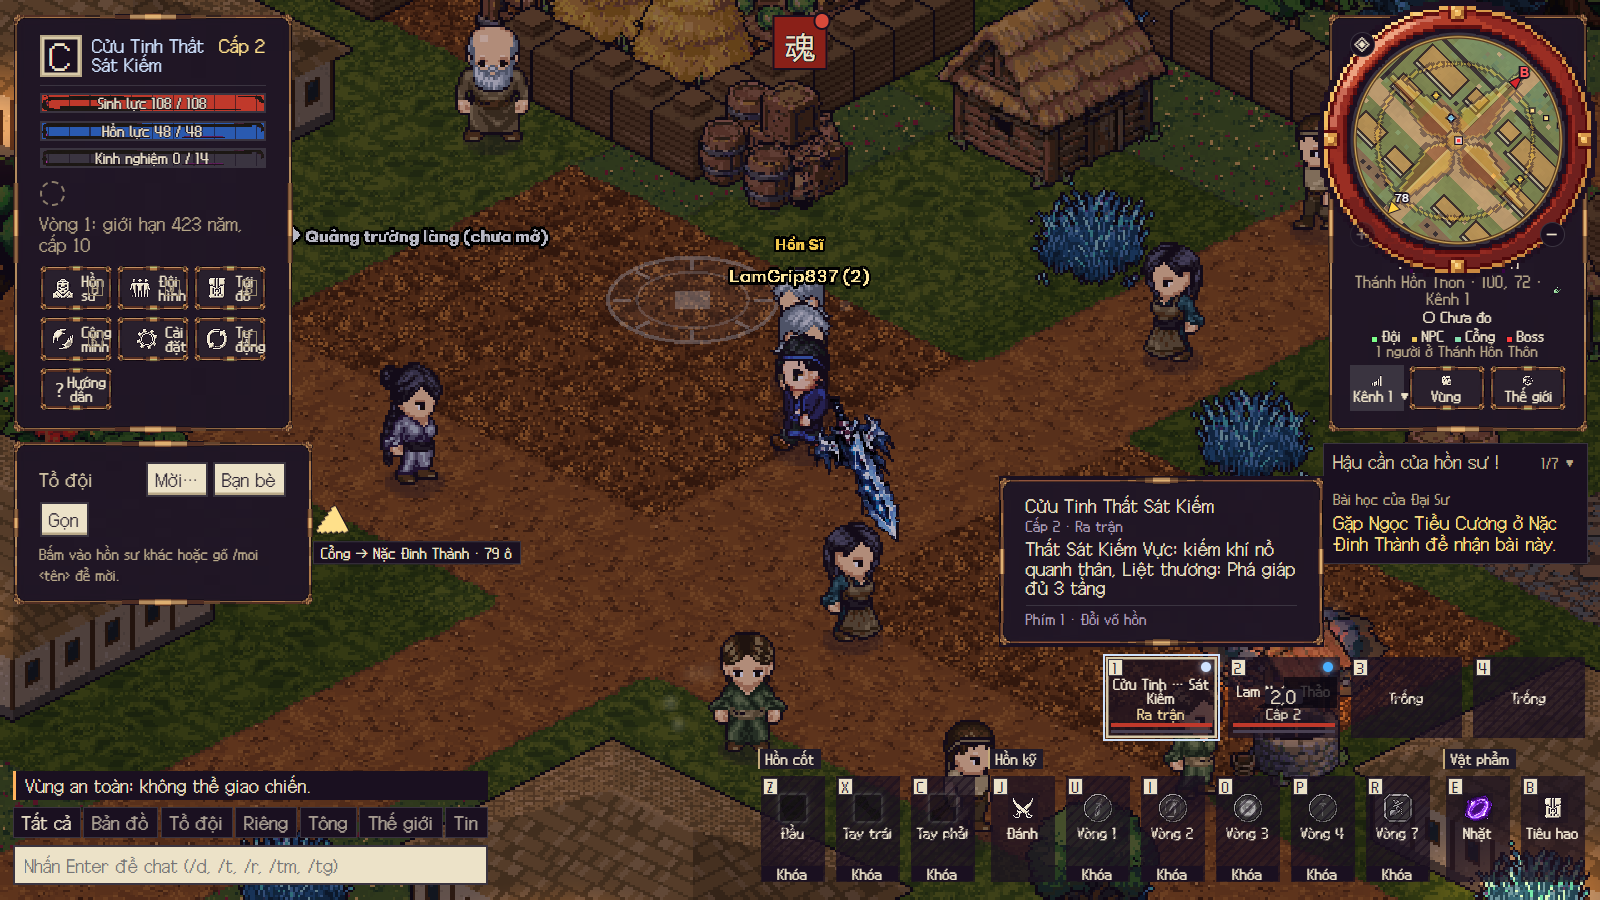
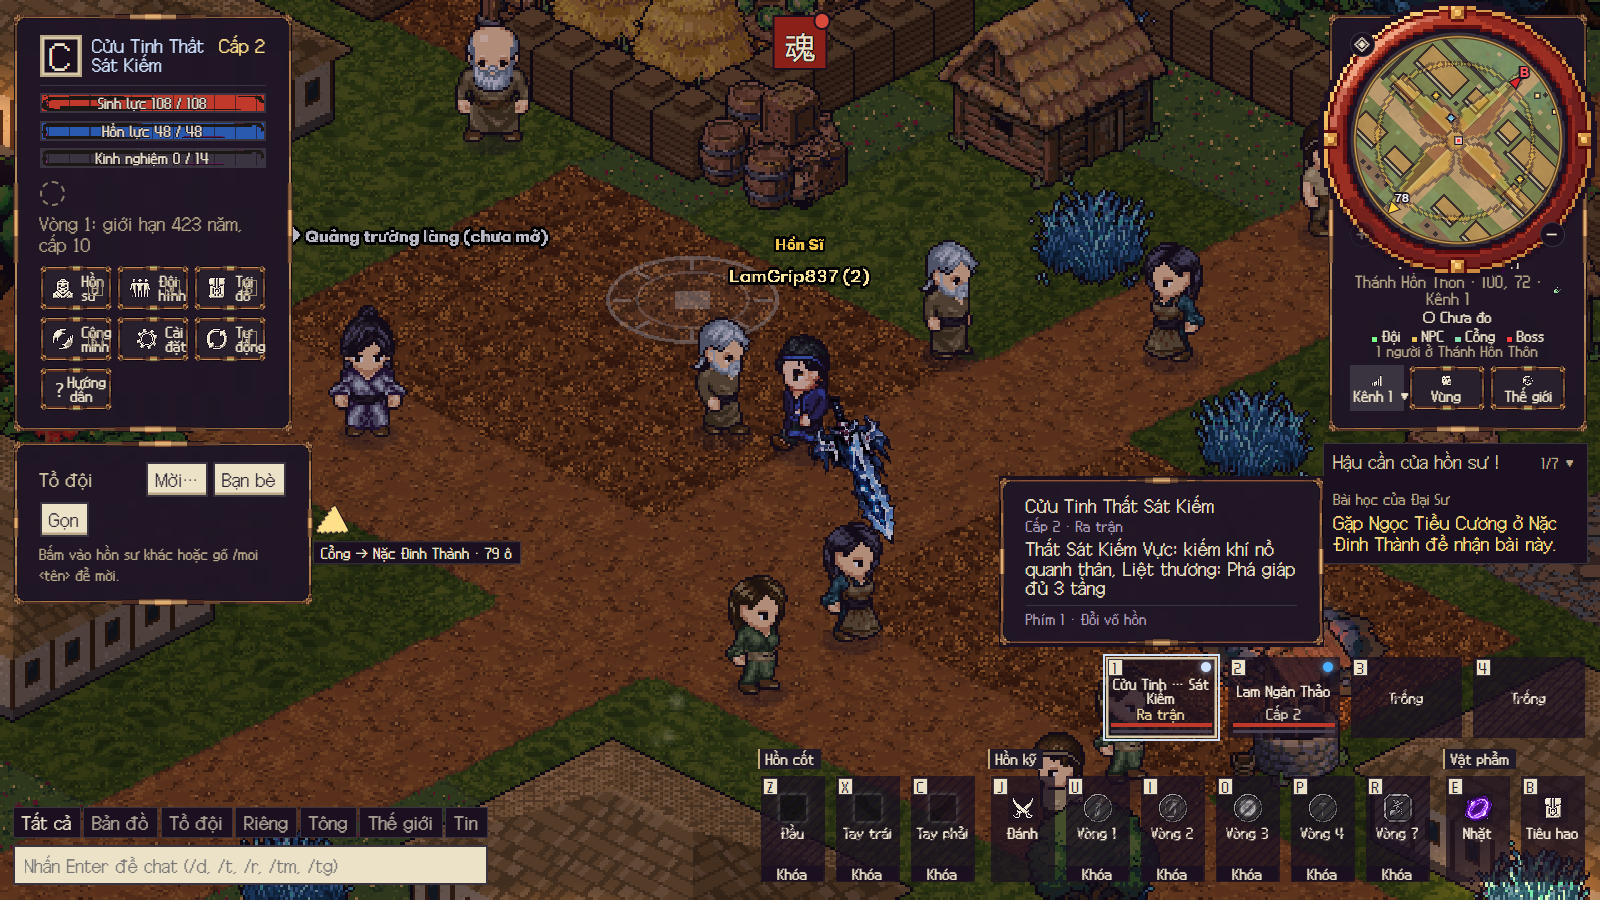
fix(client): giữ dao động vũ khí theo đặc tả

diff --git a/art/src/phuthe-anim/lam_ngan_thao/vukhi/ingame/index.html b/art/src/phuthe-anim/lam_ngan_thao/vukhi/ingame/index.html
@@ -1,1 +1,1 @@
-<!doctype html><html lang="vi"><meta charset="utf-8"><meta name="viewport" content="width=device-width"><title>Lam Ngân Thảo — ảnh kiểm trong game</title><style>body{background:#1c1920;color:#eee5d3;font:16px/1.6 system-ui;margin:24px}a{color:#9ed7ff}h1{font-size:25px}.grid{display:grid;grid-template-columns:repeat(auto-fit,minmax(450px,1fr));gap:16px}figure{margin:0 0 20px}img{width:100%;height:auto;border:1px solid #514957}figcaption{padding:7px;background:#302936}.warn{color:#ffd290}details{margin:22px 0}</style><h1>Lam Ngân Thảo — kiểm trong client game</h1><p>Đã nhập hai sheet <code>vkanim_lam_ngan_thao_b/_f</code> bằng importer #1323. Ảnh chụp nguyên byte từ AO Browser tại <code>/choi?thu=vukhi</code>, thân LPC thật nam/nữ, qua <code>vukhiSetOf</code> và <code>syncPhuLayers</code>. Mỗi ảnh: s → se → e → ne → n; cột cuối Bạch Hổ không có sheet vũ khí, không dựng sheet giả.</p><p><a href="capture.source.json">Nguồn chụp, mốc, SHA256 và đường dẫn tái tạo</a> · <a href="../NGUON.md">Hồ sơ</a> · <a href="../isolated/index.html">Bộ ghép từ atlas riêng</a></p><p class="warn"><b>Hai cảnh báo còn giữ:</b> chan-lech 14% ở s/attack khung 1 và se/attack khung 5 (chỉ số từ 0). Cùng phát hiện ở cả hai giới; không có lỗi chặn. Có ảnh mốc 88/321 ms bên dưới để duyệt, không xóa cảnh báo.</p><h2>Đứng</h2><div class="grid"><figure><figcaption>Nam — Đứng (120 ms)</figcaption><a href="m-idle.png"><img src="m-idle.png" alt="m idle năm hướng + Bạch Hổ"></a></figure><figure><figcaption>Nữ — Đứng (120 ms)</figcaption><a href="f-idle.png"><img src="f-idle.png" alt="f idle năm hướng + Bạch Hổ"></a></figure></div><h2>Đi</h2><div class="grid"><figure><figcaption>Nam — Đi (120 ms)</figcaption><a href="m-walk.png"><img src="m-walk.png" alt="m walk năm hướng + Bạch Hổ"></a></figure><figure><figcaption>Nữ — Đi (120 ms)</figcaption><a href="f-walk.png"><img src="f-walk.png" alt="f walk năm hướng + Bạch Hổ"></a></figure></div><h2>Đánh</h2><div class="grid"><figure><figcaption>Nam — Đánh (180 ms)</figcaption><a href="m-attack.png"><img src="m-attack.png" alt="m attack năm hướng + Bạch Hổ"></a></figure><figure><figcaption>Nữ — Đánh (180 ms)</figcaption><a href="f-attack.png"><img src="f-attack.png" alt="f attack năm hướng + Bạch Hổ"></a></figure></div><h2>Thi triển</h2><div class="grid"><figure><figcaption>Nam — Thi triển (180 ms)</figcaption><a href="m-cast.png"><img src="m-cast.png" alt="m cast năm hướng + Bạch Hổ"></a></figure><figure><figcaption>Nữ — Thi triển (180 ms)</figcaption><a href="f-cast.png"><img src="f-cast.png" alt="f cast năm hướng + Bạch Hổ"></a></figure></div><h2>Cảnh GameScene thật sau sửa neo</h2><p>Đăng nhập tài khoản RAM riêng tại /choi, chuyển ô 2 Lam Ngân Thảo: idle trong Thánh Hồn Thôn. Ảnh thứ hai chuyển ô 1 Thất Sát Kiếm chưa có sheet vkanim, hiện phụ thể cũ và không giữ roi Lam Ngân Thảo. Không đóng băng đồng hồ; vùng an toàn chặn đòn đánh nên không dùng cảnh này làm bằng chứng attack. Trang thử và GameScene dùng chung phuLayerPlacement; vũ khí không áp neo lưng, clip offset hoặc dao động phụ thể.</p><div class="grid"><a href="game-scene-m-idle.png"><img src="game-scene-m-idle.png" alt="GameScene Lam Ngân Thảo"></a><a href="game-scene-fallback.png"><img src="game-scene-fallback.png" alt="GameScene không có vũ khí"></a></div><h2>Nhánh dự phòng độc lập</h2><p>Chọn Bạch Hổ làm võ hồn chính: thanh trạng thái “không có sheet vũ khí”, cả năm nhân vật không cầm vũ khí.</p><a href="fallback-main.png"><img src="fallback-main.png" alt="Bạch Hổ không có sheet vũ khí"></a><details><summary>Hai khung có cảnh báo chan-lech 14%</summary><p>s/attack khung 1, mốc 88 ms</p><a href="warning-s-88.png"><img src="warning-s-88.png" alt="Khung cảnh báo s"></a><p>se/attack khung 5, mốc 321 ms</p><a href="warning-se-321.png"><img src="warning-se-321.png" alt="Khung cảnh báo se"></a></details><p>Soát các khung chụp: không thấy tay phụ, đầu dây bị xén hoặc gắn nhầm vũ khí cho Bạch Hổ. Đường chuyển lớp cast và nét của bó dây vẫn dành cho chủ repo duyệt. Ảnh không thay cho kiểm mọi mốc animation.</p></html>
+<!doctype html><html lang="vi"><meta charset="utf-8"><meta name="viewport" content="width=device-width"><title>Lam Ngân Thảo — ảnh kiểm trong game</title><style>body{background:#1c1920;color:#eee5d3;font:16px/1.6 system-ui;margin:24px}a{color:#9ed7ff}h1{font-size:25px}.grid{display:grid;grid-template-columns:repeat(auto-fit,minmax(450px,1fr));gap:16px}figure{margin:0 0 20px}img{width:100%;height:auto;border:1px solid #514957}figcaption{padding:7px;background:#302936}.warn{color:#ffd290}details{margin:22px 0}</style><h1>Lam Ngân Thảo — kiểm trong client game</h1><p>Đã nhập hai sheet <code>vkanim_lam_ngan_thao_b/_f</code> bằng importer #1323. Ảnh chụp nguyên byte từ AO Browser tại <code>/choi?thu=vukhi</code>, thân LPC thật nam/nữ, qua <code>vukhiSetOf</code> và <code>syncPhuLayers</code>. Mỗi ảnh: s → se → e → ne → n; cột cuối Bạch Hổ không có sheet vũ khí, không dựng sheet giả.</p><p><a href="capture.source.json">Nguồn chụp, mốc, SHA256 và đường dẫn tái tạo</a> · <a href="../NGUON.md">Hồ sơ</a> · <a href="../isolated/index.html">Bộ ghép từ atlas riêng</a></p><p class="warn"><b>Hai cảnh báo còn giữ:</b> chan-lech 14% ở s/attack khung 1 và se/attack khung 5 (chỉ số từ 0). Cùng phát hiện ở cả hai giới; không có lỗi chặn. Có ảnh mốc 88/321 ms bên dưới để duyệt, không xóa cảnh báo.</p><h2>Đứng</h2><div class="grid"><figure><figcaption>Nam — Đứng (120 ms)</figcaption><a href="m-idle.png"><img src="m-idle.png" alt="m idle năm hướng + Bạch Hổ"></a></figure><figure><figcaption>Nữ — Đứng (120 ms)</figcaption><a href="f-idle.png"><img src="f-idle.png" alt="f idle năm hướng + Bạch Hổ"></a></figure></div><h2>Đi</h2><div class="grid"><figure><figcaption>Nam — Đi (120 ms)</figcaption><a href="m-walk.png"><img src="m-walk.png" alt="m walk năm hướng + Bạch Hổ"></a></figure><figure><figcaption>Nữ — Đi (120 ms)</figcaption><a href="f-walk.png"><img src="f-walk.png" alt="f walk năm hướng + Bạch Hổ"></a></figure></div><h2>Đánh</h2><div class="grid"><figure><figcaption>Nam — Đánh (180 ms)</figcaption><a href="m-attack.png"><img src="m-attack.png" alt="m attack năm hướng + Bạch Hổ"></a></figure><figure><figcaption>Nữ — Đánh (180 ms)</figcaption><a href="f-attack.png"><img src="f-attack.png" alt="f attack năm hướng + Bạch Hổ"></a></figure></div><h2>Thi triển</h2><div class="grid"><figure><figcaption>Nam — Thi triển (180 ms)</figcaption><a href="m-cast.png"><img src="m-cast.png" alt="m cast năm hướng + Bạch Hổ"></a></figure><figure><figcaption>Nữ — Thi triển (180 ms)</figcaption><a href="f-cast.png"><img src="f-cast.png" alt="f cast năm hướng + Bạch Hổ"></a></figure></div><h2>Cảnh GameScene thật sau sửa neo</h2><p>Đăng nhập tài khoản RAM riêng tại /choi, chuyển ô 2 Lam Ngân Thảo: idle trong Thánh Hồn Thôn. Ảnh thứ hai chuyển ô 1 Thất Sát Kiếm chưa có sheet vkanim, hiện phụ thể cũ và không giữ roi Lam Ngân Thảo. Không đóng băng đồng hồ; vùng an toàn chặn đòn đánh nên không dùng cảnh này làm bằng chứng attack. Trang thử và GameScene dùng chung phuLayerPlacement; vũ khí không áp neo lưng, clip offset; GameScene vẫn dùng spiritMotion với weaponOscK theo đặc tả.</p><div class="grid"><a href="game-scene-m-idle.png"><img src="game-scene-m-idle.png" alt="GameScene Lam Ngân Thảo"></a><a href="game-scene-fallback.png"><img src="game-scene-fallback.png" alt="GameScene không có vũ khí"></a></div><h2>Nhánh dự phòng độc lập</h2><p>Chọn Bạch Hổ làm võ hồn chính: thanh trạng thái “không có sheet vũ khí”, cả năm nhân vật không cầm vũ khí.</p><a href="fallback-main.png"><img src="fallback-main.png" alt="Bạch Hổ không có sheet vũ khí"></a><details><summary>Hai khung có cảnh báo chan-lech 14%</summary><p>s/attack khung 1, mốc 88 ms</p><a href="warning-s-88.png"><img src="warning-s-88.png" alt="Khung cảnh báo s"></a><p>se/attack khung 5, mốc 321 ms</p><a href="warning-se-321.png"><img src="warning-se-321.png" alt="Khung cảnh báo se"></a></details><p>Soát các khung chụp: không thấy tay phụ, đầu dây bị xén hoặc gắn nhầm vũ khí cho Bạch Hổ. Đường chuyển lớp cast và nét của bó dây vẫn dành cho chủ repo duyệt. Ảnh không thay cho kiểm mọi mốc animation.</p></html>

diff --git a/client/src/scenes/GameScene.ts b/client/src/scenes/GameScene.ts
@@ -3480,8 +3480,6 @@ export class GameScene extends Phaser.Scene {
    * chuyển động tắt hẳn, người khác nhẹ hơn. Gục, hấp thụ, khung phụ thể ẩn thì trả về tư thế gốc.
    */
   spiritMotion(id: string, v: PView, p: any, time: number, anim: HsAnim, flip: boolean, ox: number, oy: number, anchorK = 1, real = !!v.vhAnim) {
-    // Vũ khí đã bake pose theo bàn tay; dao động phụ thể sẽ làm điểm cầm rời tay.
-    if (real && v.vhAnim?.layout.weapon) { for (const s of [v.vb, v.vf]) s.setRotation(0).setScale(1 / SPR).setPosition(ox, oy); return; }
     const fam = SPIRIT_FAMILY[VOHON[p.vh]?.id ?? ""], layers = [v.vb, v.vf];
     const k = fam && v.vb.visible && !p.dead && anim !== "absorb" ? spiritScale(fxLevel(), fxPrefs.reduce, id === this.me) : 0;
     const iso = real || isIsoSheet(this, v.vb.texture.key), base = (iso ? 1 / SPR : 1) * (iso ? anchorK : 1); // phụ thể 48×48 cũ vẽ bằng code phóng 1 (fitHonsuLayer); neo chỉ cho ảnh iso

diff --git a/art/src/phuthe-anim/lam_ngan_thao/vukhi/NGUON.md b/art/src/phuthe-anim/lam_ngan_thao/vukhi/NGUON.md
@@ -1,4 +1,4 @@
-# Lam Ngân Thảo — thí điểm vũ khí mềm
+# Lam Ngân Thảo — thí điểm vũ khí mềm
 
 Part of #1312, epic #1020; issue thực hiện #1321. Dòng 18 trong `docs/art/phu-the-vu-khi.md`: roi dây cỏ lam thẫm, một tay giữ gốc, thân dây xoắn, ngọn nhọn. **Trạng thái mới nhất: đã nhập bộ vẽ riêng + ghép grip vào game theo chỉ đạo sau #1323; [ảnh kiểm trong game](ingame/index.html) ở cuối hồ sơ.** Các mục vòng 1/2 và thử nghiệm dưới đây giữ lịch sử trước lần nhập; không coi trạng thái “chưa nhập” ở lịch sử là trạng thái hiện tại. Chờ chủ repo duyệt mỹ thuật, không tự merge.
 
@@ -125,6 +125,7 @@ Trang `/choi?thu=vukhi` được bổ sung thân LPC thật qua `LpcRig` cho `gi
 Kiểm local sau nhập: `npm run check`, `npm run build`, `test:phutheanim`, credits/validate đạt. Bot RAM nhóm `combo`: 34 đạt, 0 lỗi, 0 bỏ qua. Không đổi server/SQL/luật chơi; việc duyệt mỹ thuật và merge vẫn do chủ repo/orchestrator.
 
 ### Sửa neo runtime theo AO review
-GameScene từng áp neo lưng `anchor.json` của phụ thể cũ (Lam Ngân Thảo m/s scale 0.9, dy -2.65) lên vũ khí mới. Đã dùng chung `phuLayerPlacement` giữa GameScene và trang thử: vũ khí giữ gốc LPC, không áp clip offset/neo lưng; không chạy dao động xoay/co/dịch phụ thể vì grip đã bake. Phụ thể cũ giữ hành vi cũ. Kiểm hồi quy có neo cũ, offset khác 0 và cả phía lật ngang.
+GameScene từng áp neo lưng `anchor.json` của phụ thể cũ (Lam Ngân Thảo m/s scale 0.9, dy -2.65) lên vũ khí mới. Đã dùng chung `phuLayerPlacement` giữa GameScene và trang thử: vũ khí giữ gốc LPC, không áp clip offset/neo lưng. Giữ spiritMotion với weaponOscK theo đặc tả bước 5 (đứng/đi nhẹ, đánh/thi triển/bị đánh giữ nguyên). Phụ thể cũ giữ hành vi cũ. Kiểm hồi quy có neo cũ, offset khác 0 và cả phía lật ngang.
 
 Tám ảnh ma trận được chụp lại từ bản build sau sửa. Thêm `ingame/game-scene-m-idle.png`: đăng nhập tài khoản thử trên server RAM riêng, chuyển ô 2 Lam Ngân Thảo, đứng trong Thánh Hồn Thôn qua GameScene thật. `game-scene-fallback.png` chuyển ô 1 Thất Sát Kiếm: trở về phụ thể cũ, không giữ roi. Không đóng băng đồng hồ hoặc dựng lại ảnh; đòn đánh bị vùng an toàn chặn nên không dùng ảnh GameScene làm bằng chứng attack/cast. Ma trận trang thử vẫn kiểm đủ nam/nữ, bốn động tác, năm hướng. Hash ba file mã đặt lớp ghi trong capture.source.json.
+
